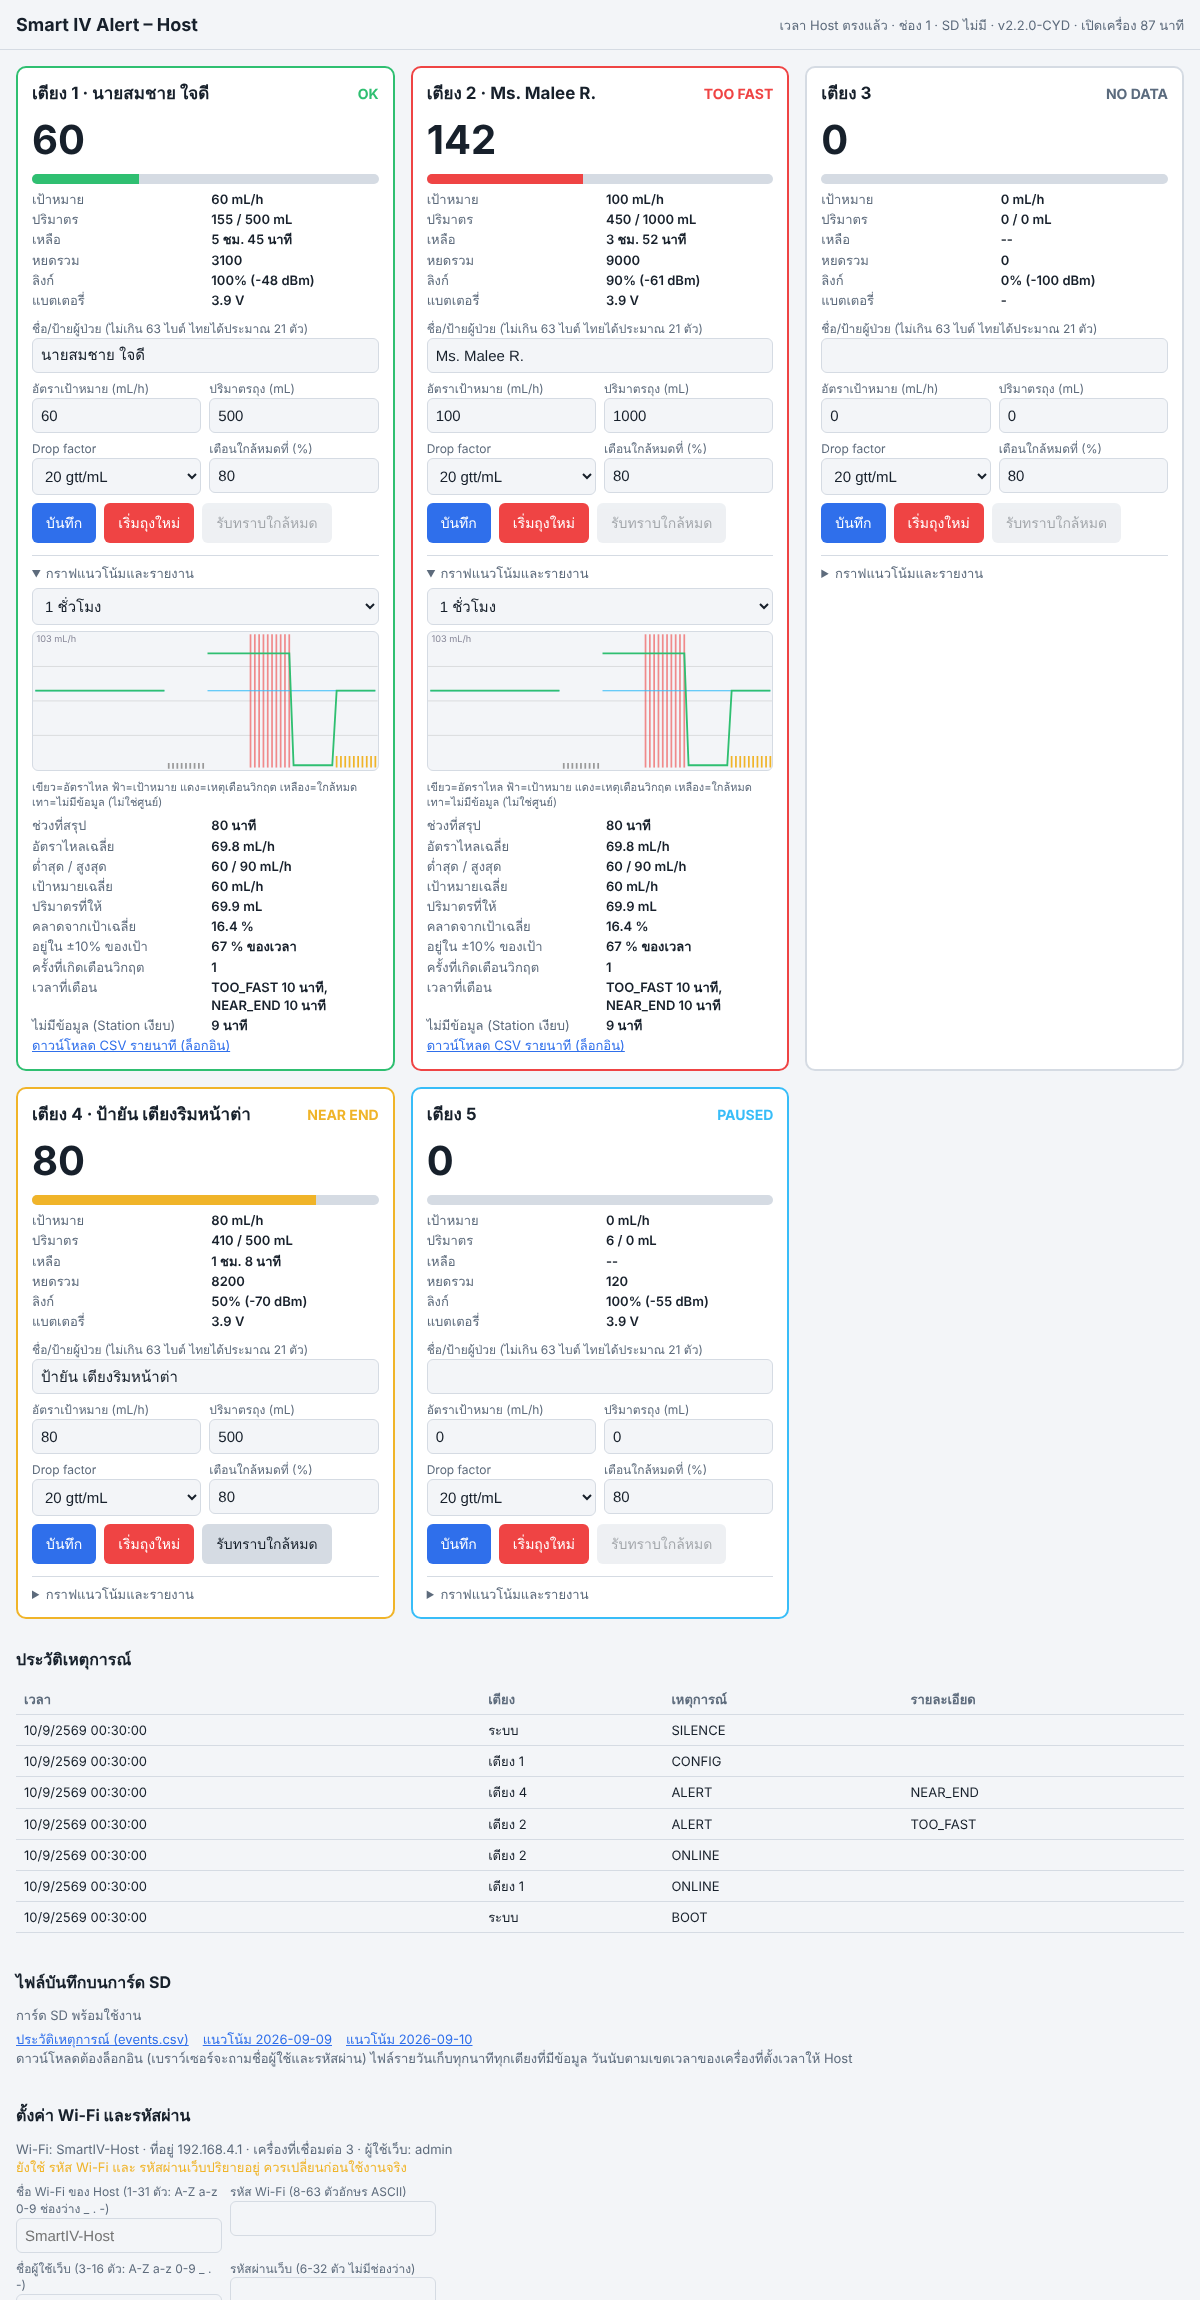
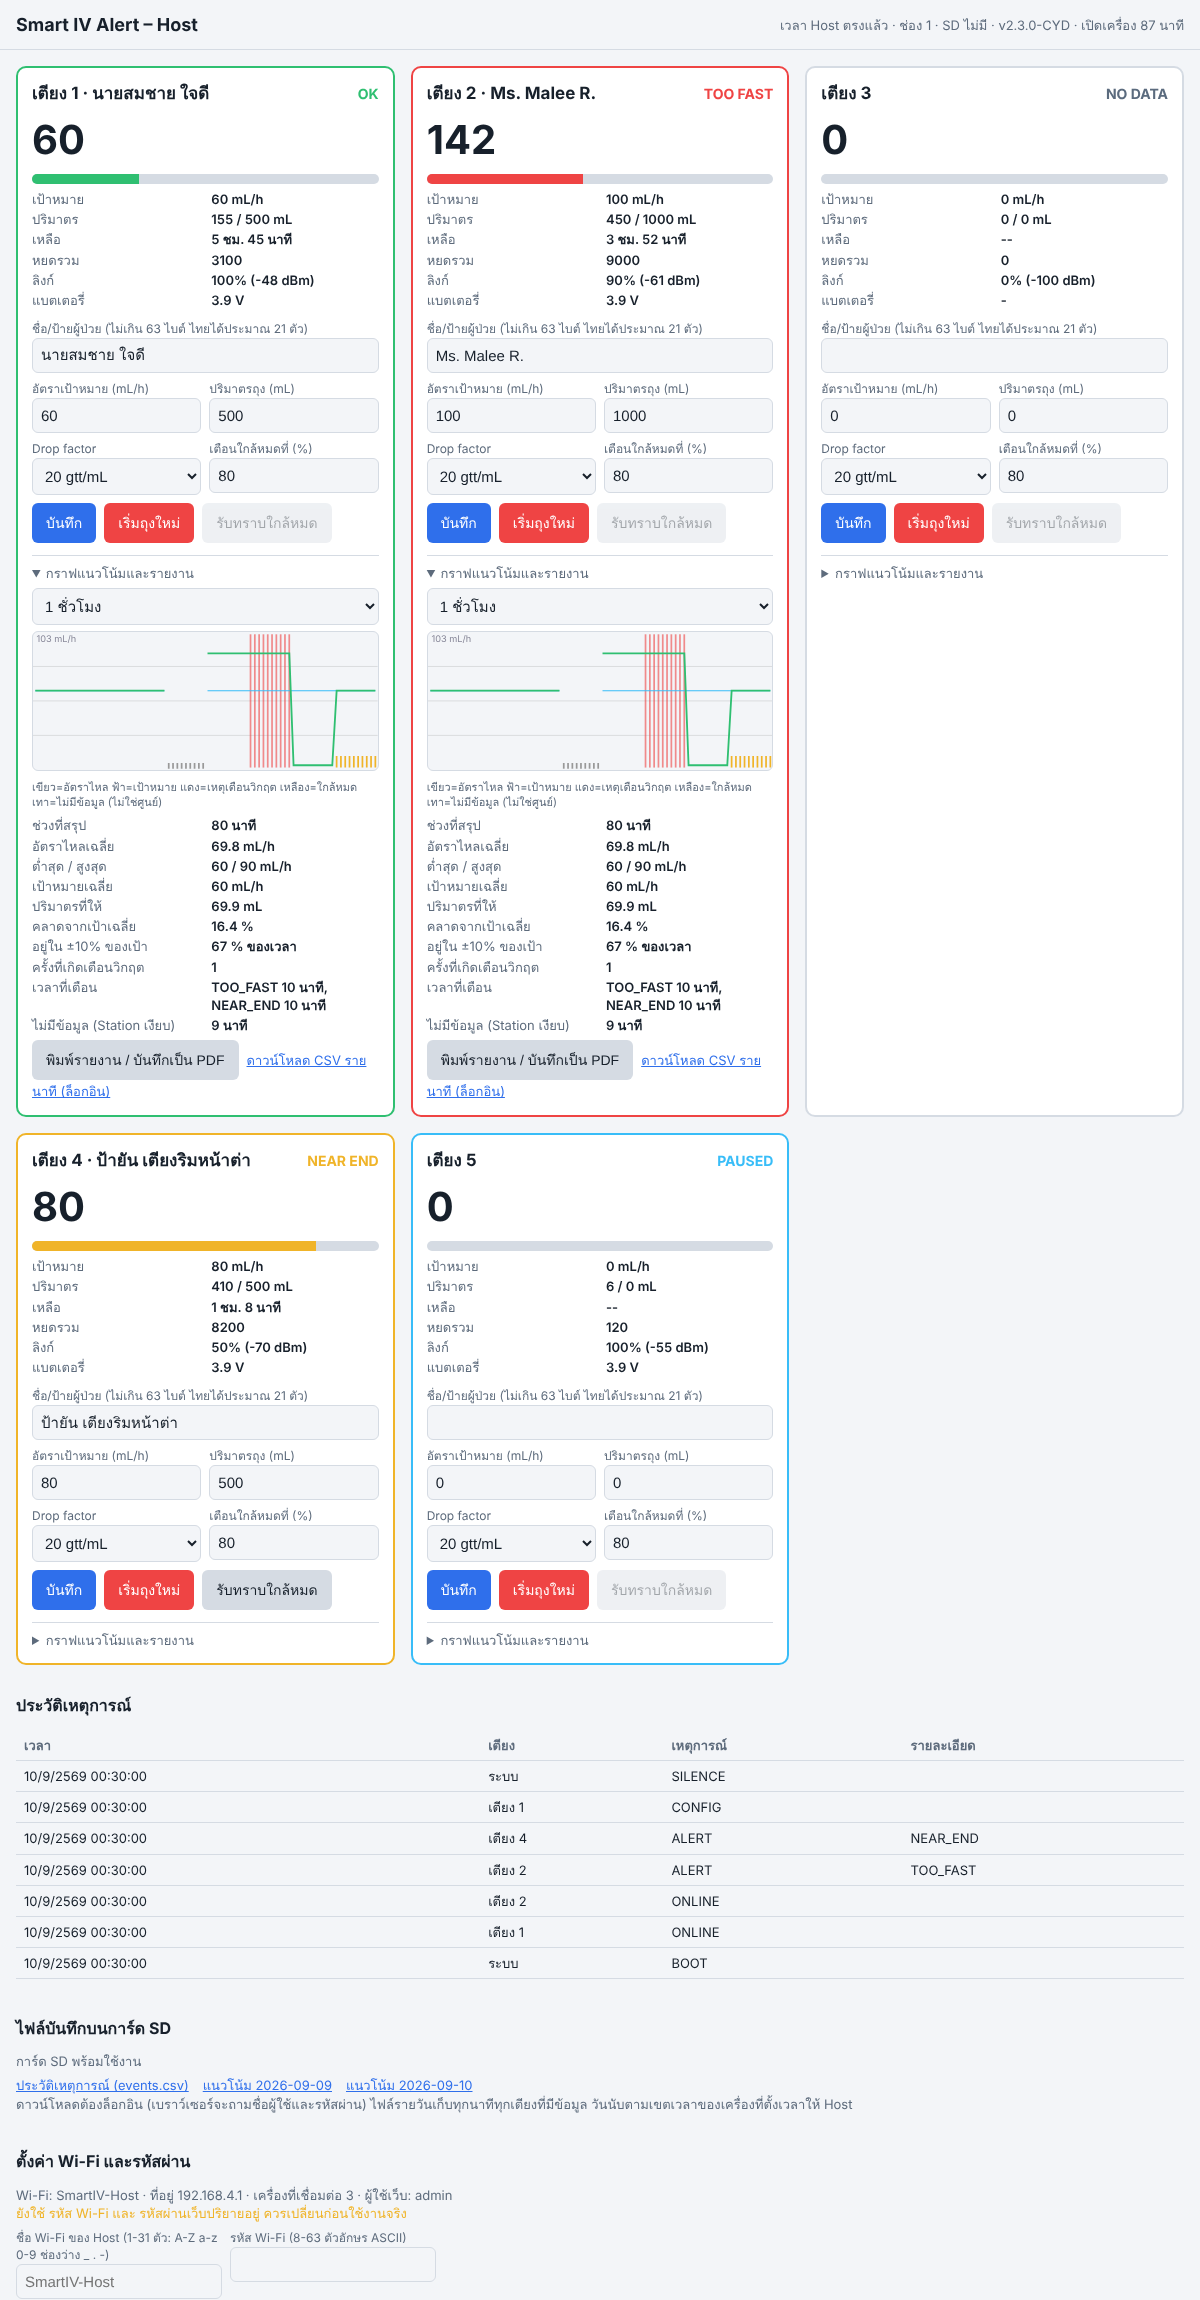
Host-CYD28 2.3.0: ปุ่มพิมพ์รายงานเตียง / บันทึกเป็น PDF บนหน้าเว็บ
Claude-Session: https://claude.ai/code/session_01K6YWzDW2GjtkRSBCL1AnHv

diff --git a/firmware/Host-CYD28/web_dashboard.h b/firmware/Host-CYD28/web_dashboard.h
@@ -1,7 +1,7 @@
 /**
  * @file      web_dashboard.h
  * @brief     หน้าเว็บแดชบอร์ด (หน้าเดียว) เก็บใน flash
- * @version   2.2.0-CYD
+ * @version   2.3.0-CYD
  * @date      2026-11-27
  * @author    นายกิตติพันธ์ รัตนคร <kittiphun.rut@mcu.ac.th>
  *
@@ -15,6 +15,7 @@
  * @par Revision History
  * | Version | Date | Change |
  * |---|---|---|
+ * | 2.3.0-CYD | 2026-11-27 | ปุ่มพิมพ์รายงานในการ์ดเตียง: สร้างใบรายงาน A4 (หัวเรื่อง เตียง/ผู้ป่วย กราฟ สรุป เหตุการณ์ของเตียง ช่องลงนาม) ฝั่งเบราว์เซอร์ด้วย window.print() ใช้พิมพ์หรือบันทึกเป็น PDF ได้ ไม่เพิ่มเส้นทาง API |
  * | 2.2.0-CYD | 2026-11-27 | กราฟแนวโน้มอัตราไหล (SVG วาดด้วย createElementNS ไม่ใช้ innerHTML) เลือกช่วง 30/60/240 นาที พร้อมรายงานสรุป ปุ่มดาวน์โหลด CSV รายนาที และแผงไฟล์บนการ์ด SD |
  * | 2.1.0-CYD | 2026-11-27 | ช่องชื่อ/ป้ายผู้ป่วยในการ์ดเตียง · แผงตั้งค่า Wi-Fi/รหัสผ่านเว็บ (เตือนถ้ายังใช้รหัสปริยาย) · แปลข้อความผิดพลาดจากเครื่องเป็นภาษาไทย |
  * | 2.0.3-CYD | 2026-11-27 | เขียนใหม่ด่านที่ 4 (เว็บ นาฬิกา SD ประวัติเหตุการณ์) ไม่นำโค้ดรุ่น 1.x มาปรับ |
@@ -51,6 +52,9 @@ details.tr{margin-top:12px;border-top:1px solid var(--line);padding-top:8px}deta
 section{padding:0 16px 24px}table{width:100%;border-collapse:collapse;font-size:13px}th,td{text-align:left;padding:6px 8px;border-bottom:1px solid var(--line)}th{color:var(--dim);font-weight:600}
 #toast{position:fixed;left:50%;bottom:16px;transform:translateX(-50%);background:var(--card);border:1px solid var(--line);padding:10px 16px;border-radius:8px;display:none}
 .note{color:var(--dim);font-size:12px;padding:0 16px 16px}
+/* [2.3.0-CYD] เพิ่ม: ใบรายงานสำหรับพิมพ์ ซ่อนทุกอย่างยกเว้น #sheet ตอนสั่งพิมพ์ */
+#sheet{display:none}
+@media print{@page{size:A4;margin:14mm}body>*:not(#sheet){display:none!important}body{background:#fff}#sheet{display:block;color:#000;background:#fff;font:12pt/1.45 "TH Sarabun New","Sarabun",system-ui,sans-serif}#sheet h2{margin:0 0 4px;font-size:18pt}#sheet table{margin-top:8px}#sheet th,#sheet td{border:1px solid #777;padding:3px 6px;color:#000}#sheet svg{width:100%;height:auto;border:1px solid #777;background:#fff;margin-top:8px}#sheet .sign{display:flex;gap:40px;margin-top:48px}#sheet .sign div{flex:1;border-top:1px solid #000;padding-top:4px;text-align:center}#sheet .fine{font-size:10pt;margin-top:16px}}
 </style></head><body>
 <header><h1>Smart IV Alert &ndash; Host</h1><div class="meta" id="meta">กำลังเชื่อมต่อ...</div></header>
 <main id="beds"></main>
@@ -69,6 +73,7 @@ section{padding:0 16px 24px}table{width:100%;border-collapse:collapse;font-size:
 <div class="meta">เว้นช่องที่ไม่ต้องการเปลี่ยนไว้ว่าง ค่าใหม่มีผลหลังรีสตาร์ท ต้องต่อ Wi-Fi ใหม่และล็อกอินใหม่ ลืมรหัส: กดปุ่ม BOOT บนบอร์ดค้างไว้ตอนเปิดเครื่อง 2 วินาทีเพื่อคืนค่าปริยาย</div>
 </form></section>
 <div class="note">ดูข้อมูลได้ทันที การแก้ค่า/เริ่มถุงใหม่/รับทราบ ต้องล็อกอิน (เบราว์เซอร์จะถามชื่อผู้ใช้และรหัสผ่าน) ระบบนี้ไม่ใช่ระบบเตือนที่ได้รับการรับรองทางการแพทย์</div>
+<div id="sheet"></div>
 <div id="toast"></div>
 <script>
 "use strict";
@@ -103,10 +108,34 @@ function drawChart(svg,d){
   poly(d.r,function(k){return(d.f[k]&1)!==0},"#2fbf71",1.6);
   var lab=svgEl("text",{x:3,y:9,"font-size":8,fill:"#889"});lab.textContent=Math.round(max)+" mL/h";svg.appendChild(lab);
 }
+function reportRows(s){
+  var al=Object.keys(s.alertMinutes||{}).map(function(k){return k+" "+s.alertMinutes[k]+" นาที"}).join(", ")||"ไม่มี";
+  return [["ช่วงที่สรุป",s.minutes+" นาที"],["อัตราไหลเฉลี่ย",s.avgRate+" mL/h"],["ต่ำสุด / สูงสุด",s.minRate+" / "+s.maxRate+" mL/h"],["เป้าหมายเฉลี่ย",s.avgTarget+" mL/h"],["ปริมาตรที่ให้",s.totalMl+" mL"],["คลาดจากเป้าเฉลี่ย",s.devPct+" %"],["อยู่ใน ±10% ของเป้า",s.withinPct+" % ของเวลา"],["ครั้งที่เกิดเตือนวิกฤต",s.episodes],["เวลาที่เตือน",al],["ไม่มีข้อมูล (Station เงียบ)",s.gap+" นาที"]];
+}
 function showReport(box,s){
   box.textContent="";
-  var al=Object.keys(s.alertMinutes||{}).map(function(k){return k+" "+s.alertMinutes[k]+" นาที"}).join(", ")||"ไม่มี";
-  [["ช่วงที่สรุป",s.minutes+" นาที"],["อัตราไหลเฉลี่ย",s.avgRate+" mL/h"],["ต่ำสุด / สูงสุด",s.minRate+" / "+s.maxRate+" mL/h"],["เป้าหมายเฉลี่ย",s.avgTarget+" mL/h"],["ปริมาตรที่ให้",s.totalMl+" mL"],["คลาดจากเป้าเฉลี่ย",s.devPct+" %"],["อยู่ใน ±10% ของเป้า",s.withinPct+" % ของเวลา"],["ครั้งที่เกิดเตือนวิกฤต",s.episodes],["เวลาที่เตือน",al],["ไม่มีข้อมูล (Station เงียบ)",s.gap+" นาที"]].forEach(function(p){box.appendChild(el("span",null,p[0]));box.appendChild(el("b",null,String(p[1])))});
+  reportRows(s).forEach(function(p){box.appendChild(el("span",null,p[0]));box.appendChild(el("b",null,String(p[1])))});
+}
+/* [2.3.0-CYD] เพิ่ม: ใบรายงานพิมพ์ได้ ดึงข้อมูลชุดเดียวกับกราฟ แล้วสั่ง window.print() */
+function printReport(id,name,mins){
+  Promise.all(["/api/trend?bed="+id+"&mins="+mins,"/api/report?bed="+id+"&mins="+mins,"/api/events"].map(function(u){return fetch(u).then(function(r){if(!r.ok)throw new Error("ดึงข้อมูลไม่ได้");return r.json()})})).then(function(a){
+    var sh=$("sheet"),tb,tr;sh.textContent="";
+    sh.appendChild(el("h2",null,"รายงานการให้สารน้ำทางหลอดเลือดดำ"));
+    sh.appendChild(el("div",null,"เตียง "+id+(name?" · ผู้ป่วย "+name:"")));
+    sh.appendChild(el("div",null,"ข้อมูล "+mins+" นาทีล่าสุด · พิมพ์เมื่อ "+new Date().toLocaleString("th-TH")+" (ตามนาฬิกาเครื่องที่สั่งพิมพ์)"));
+    var svg=document.createElementNS(SVGNS,"svg");svg.setAttribute("viewBox","0 0 300 120");drawChart(svg,a[0]);sh.appendChild(svg);
+    sh.appendChild(el("div","fine","เขียว=อัตราไหล ฟ้า=เป้าหมาย แดง=เหตุเตือนวิกฤต เหลือง=ใกล้หมด เทา=ไม่มีข้อมูล (ไม่ใช่ศูนย์)"));
+    tb=el("table");reportRows(a[1]).forEach(function(p){tr=el("tr");tr.appendChild(el("th",null,p[0]));tr.appendChild(el("td",null,String(p[1])));tb.appendChild(tr)});sh.appendChild(tb);
+    var ev=a[2].filter(function(e){return Number(e.bed)===Number(id)}).slice(0,20);
+    sh.appendChild(el("h3",null,"เหตุการณ์ของเตียงนี้ (ล่าสุดไม่เกิน 20 รายการ)"));
+    tb=el("table");tr=el("tr");["เวลา","เหตุการณ์","รายละเอียด"].forEach(function(t){tr.appendChild(el("th",null,t))});tb.appendChild(tr);
+    ev.forEach(function(e){tr=el("tr");[fmtTime(e.epoch,e.up),e.event,e.detail].forEach(function(t){tr.appendChild(el("td",null,t))});tb.appendChild(tr)});
+    if(!ev.length){tr=el("tr");var td=el("td",null,"ไม่มีเหตุการณ์");td.colSpan=3;tr.appendChild(td);tb.appendChild(tr)}
+    sh.appendChild(tb);
+    var sg=el("div","sign");["ผู้บันทึก","ผู้ตรวจสอบ"].forEach(function(t){sg.appendChild(el("div",null,t))});sh.appendChild(sg);
+    sh.appendChild(el("div","fine","ข้อมูลจากอุปกรณ์เสริมเฝ้าระวัง ไม่ใช่ระบบเตือนที่ได้รับการรับรองทางการแพทย์ ต้องตรวจสอบสารน้ำและผู้ป่วยโดยตรงเสมอ"));
+    window.print();
+  }).catch(function(e){toast(e.message)});
 }
 function loadSd(){
   fetch("/api/sd").then(function(r){return r.json()}).then(function(s){
@@ -136,15 +165,16 @@ function buildCard(b){
   var iName=field("name","ชื่อ/ป้ายผู้ป่วย (ไม่เกิน 63 ไบต์ ไทยได้ประมาณ 21 ตัว)","text",{maxlength:63,autocomplete:"off"});iName.parentNode.style.gridColumn="1/-1";
   var iRate=field("rate","อัตราเป้าหมาย (mL/h)","number",{min:0,max:3000}),iPlan=field("plan","ปริมาตรถุง (mL)","number",{min:0,max:10000}),
       iDf=field("df","Drop factor","select"),iNear=field("near","เตือนใกล้หมดที่ (%)","number",{min:50,max:95,step:1});
-  var det=el("details","tr"),dsum=el("summary",null,"กราฟแนวโน้มและรายงาน"),rangeSel=el("select"),chart=document.createElementNS(SVGNS,"svg"),legend=el("div","legend","เขียว=อัตราไหล ฟ้า=เป้าหมาย แดง=เหตุเตือนวิกฤต เหลือง=ใกล้หมด เทา=ไม่มีข้อมูล (ไม่ใช่ศูนย์)"),rep=el("div","rep"),dl=el("a","dl","ดาวน์โหลด CSV รายนาที (ล็อกอิน)");
+  var det=el("details","tr"),dsum=el("summary",null,"กราฟแนวโน้มและรายงาน"),rangeSel=el("select"),chart=document.createElementNS(SVGNS,"svg"),legend=el("div","legend","เขียว=อัตราไหล ฟ้า=เป้าหมาย แดง=เหตุเตือนวิกฤต เหลือง=ใกล้หมด เทา=ไม่มีข้อมูล (ไม่ใช่ศูนย์)"),rep=el("div","rep"),dl=el("a","dl","ดาวน์โหลด CSV รายนาที (ล็อกอิน)"),prn=el("button","alt","พิมพ์รายงาน / บันทึกเป็น PDF");prn.type="button";prn.style.margin="6px 8px 0 0";
   [[30,"30 นาที"],[60,"1 ชั่วโมง"],[240,"4 ชั่วโมง"]].forEach(function(o){var op=el("option",null,o[1]);op.value=o[0];rangeSel.appendChild(op)});rangeSel.value=60;rangeSel.style.margin="6px 0 0";
   chart.setAttribute("viewBox","0 0 300 120");chart.setAttribute("class","chart");
-  det.appendChild(dsum);det.appendChild(rangeSel);det.appendChild(chart);det.appendChild(legend);det.appendChild(rep);det.appendChild(dl);
+  det.appendChild(dsum);det.appendChild(rangeSel);det.appendChild(chart);det.appendChild(legend);det.appendChild(rep);det.appendChild(prn);det.appendChild(dl);
   function loadTrend(){
     var m=rangeSel.value;dl.href="/api/trend.csv?bed="+b.id+"&mins=240";
     fetch("/api/trend?bed="+b.id+"&mins="+m).then(function(r){return r.json()}).then(function(d){drawChart(chart,d)}).catch(function(){});
     fetch("/api/report?bed="+b.id+"&mins="+m).then(function(r){return r.json()}).then(function(s){showReport(rep,s)}).catch(function(){});
   }
+  prn.onclick=function(){printReport(b.id,obj.curName,rangeSel.value)};
   det.addEventListener("toggle",function(){if(det.open)loadTrend()});rangeSel.onchange=loadTrend;
   openTrends.push(function(){if(det.open)loadTrend()});
   var row=el("div","row"),save=el("button",null,"บันทึก"),bag=el("button","danger","เริ่มถุงใหม่"),ack=el("button","alt","รับทราบใกล้หมด");
